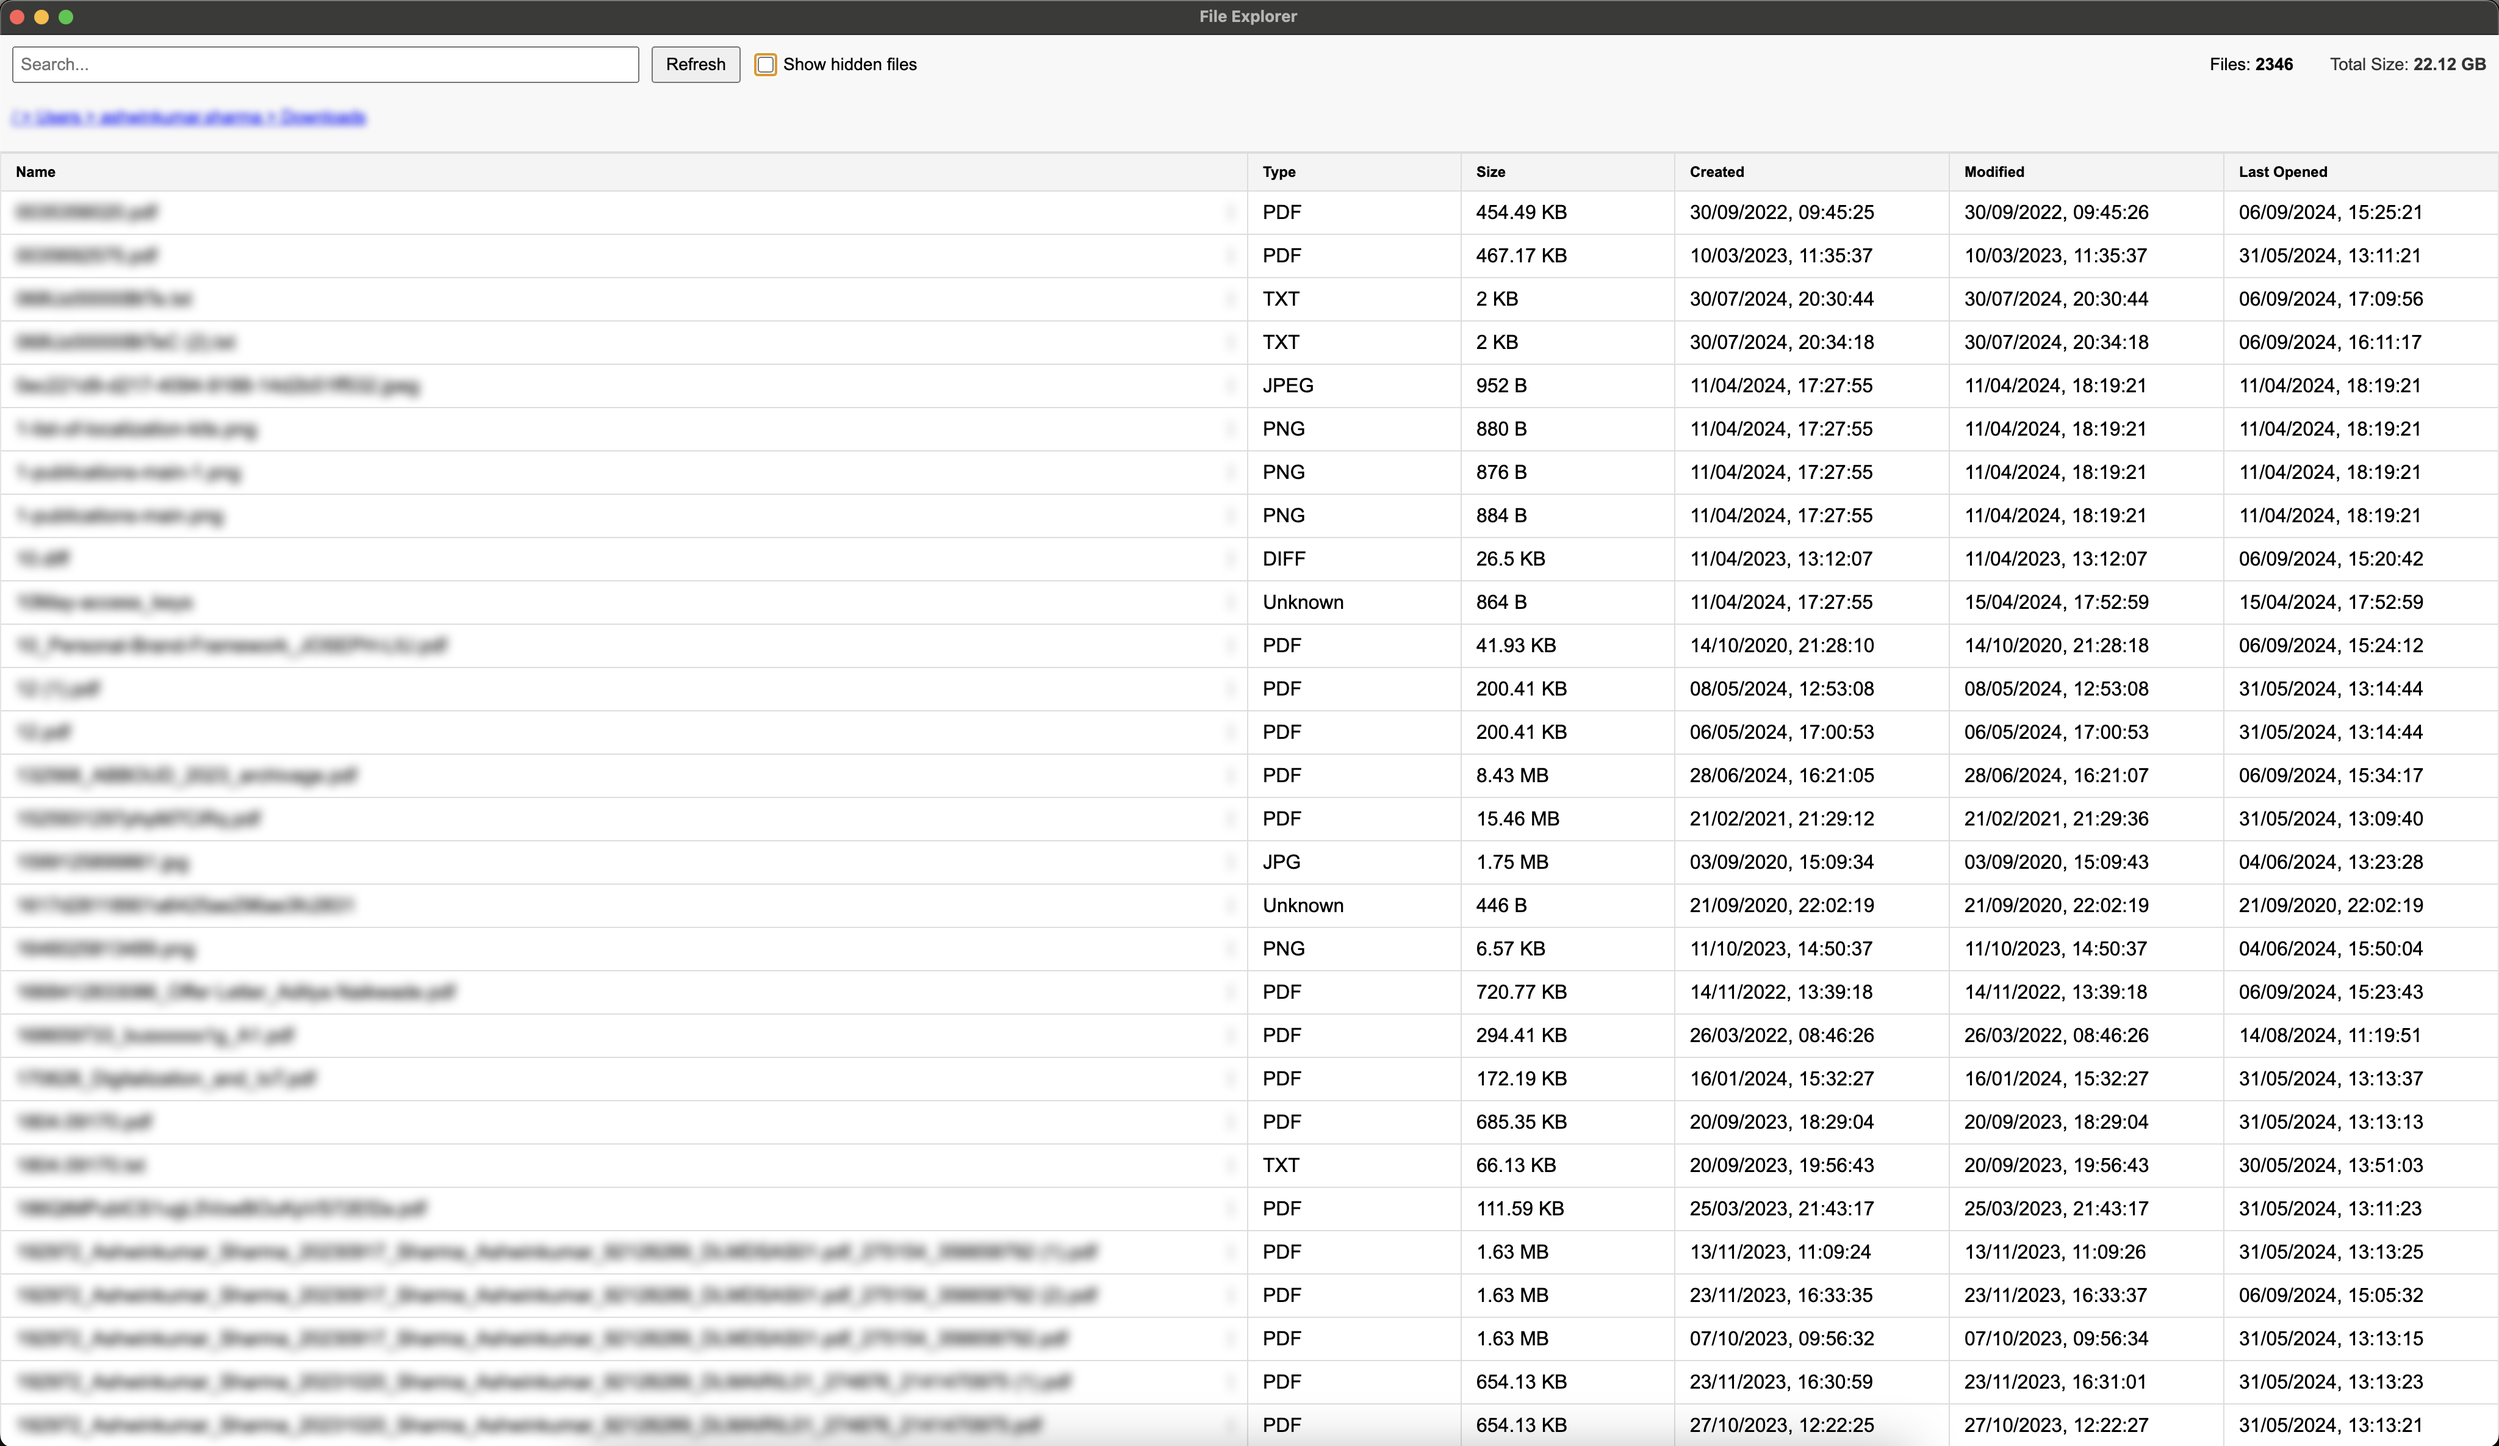
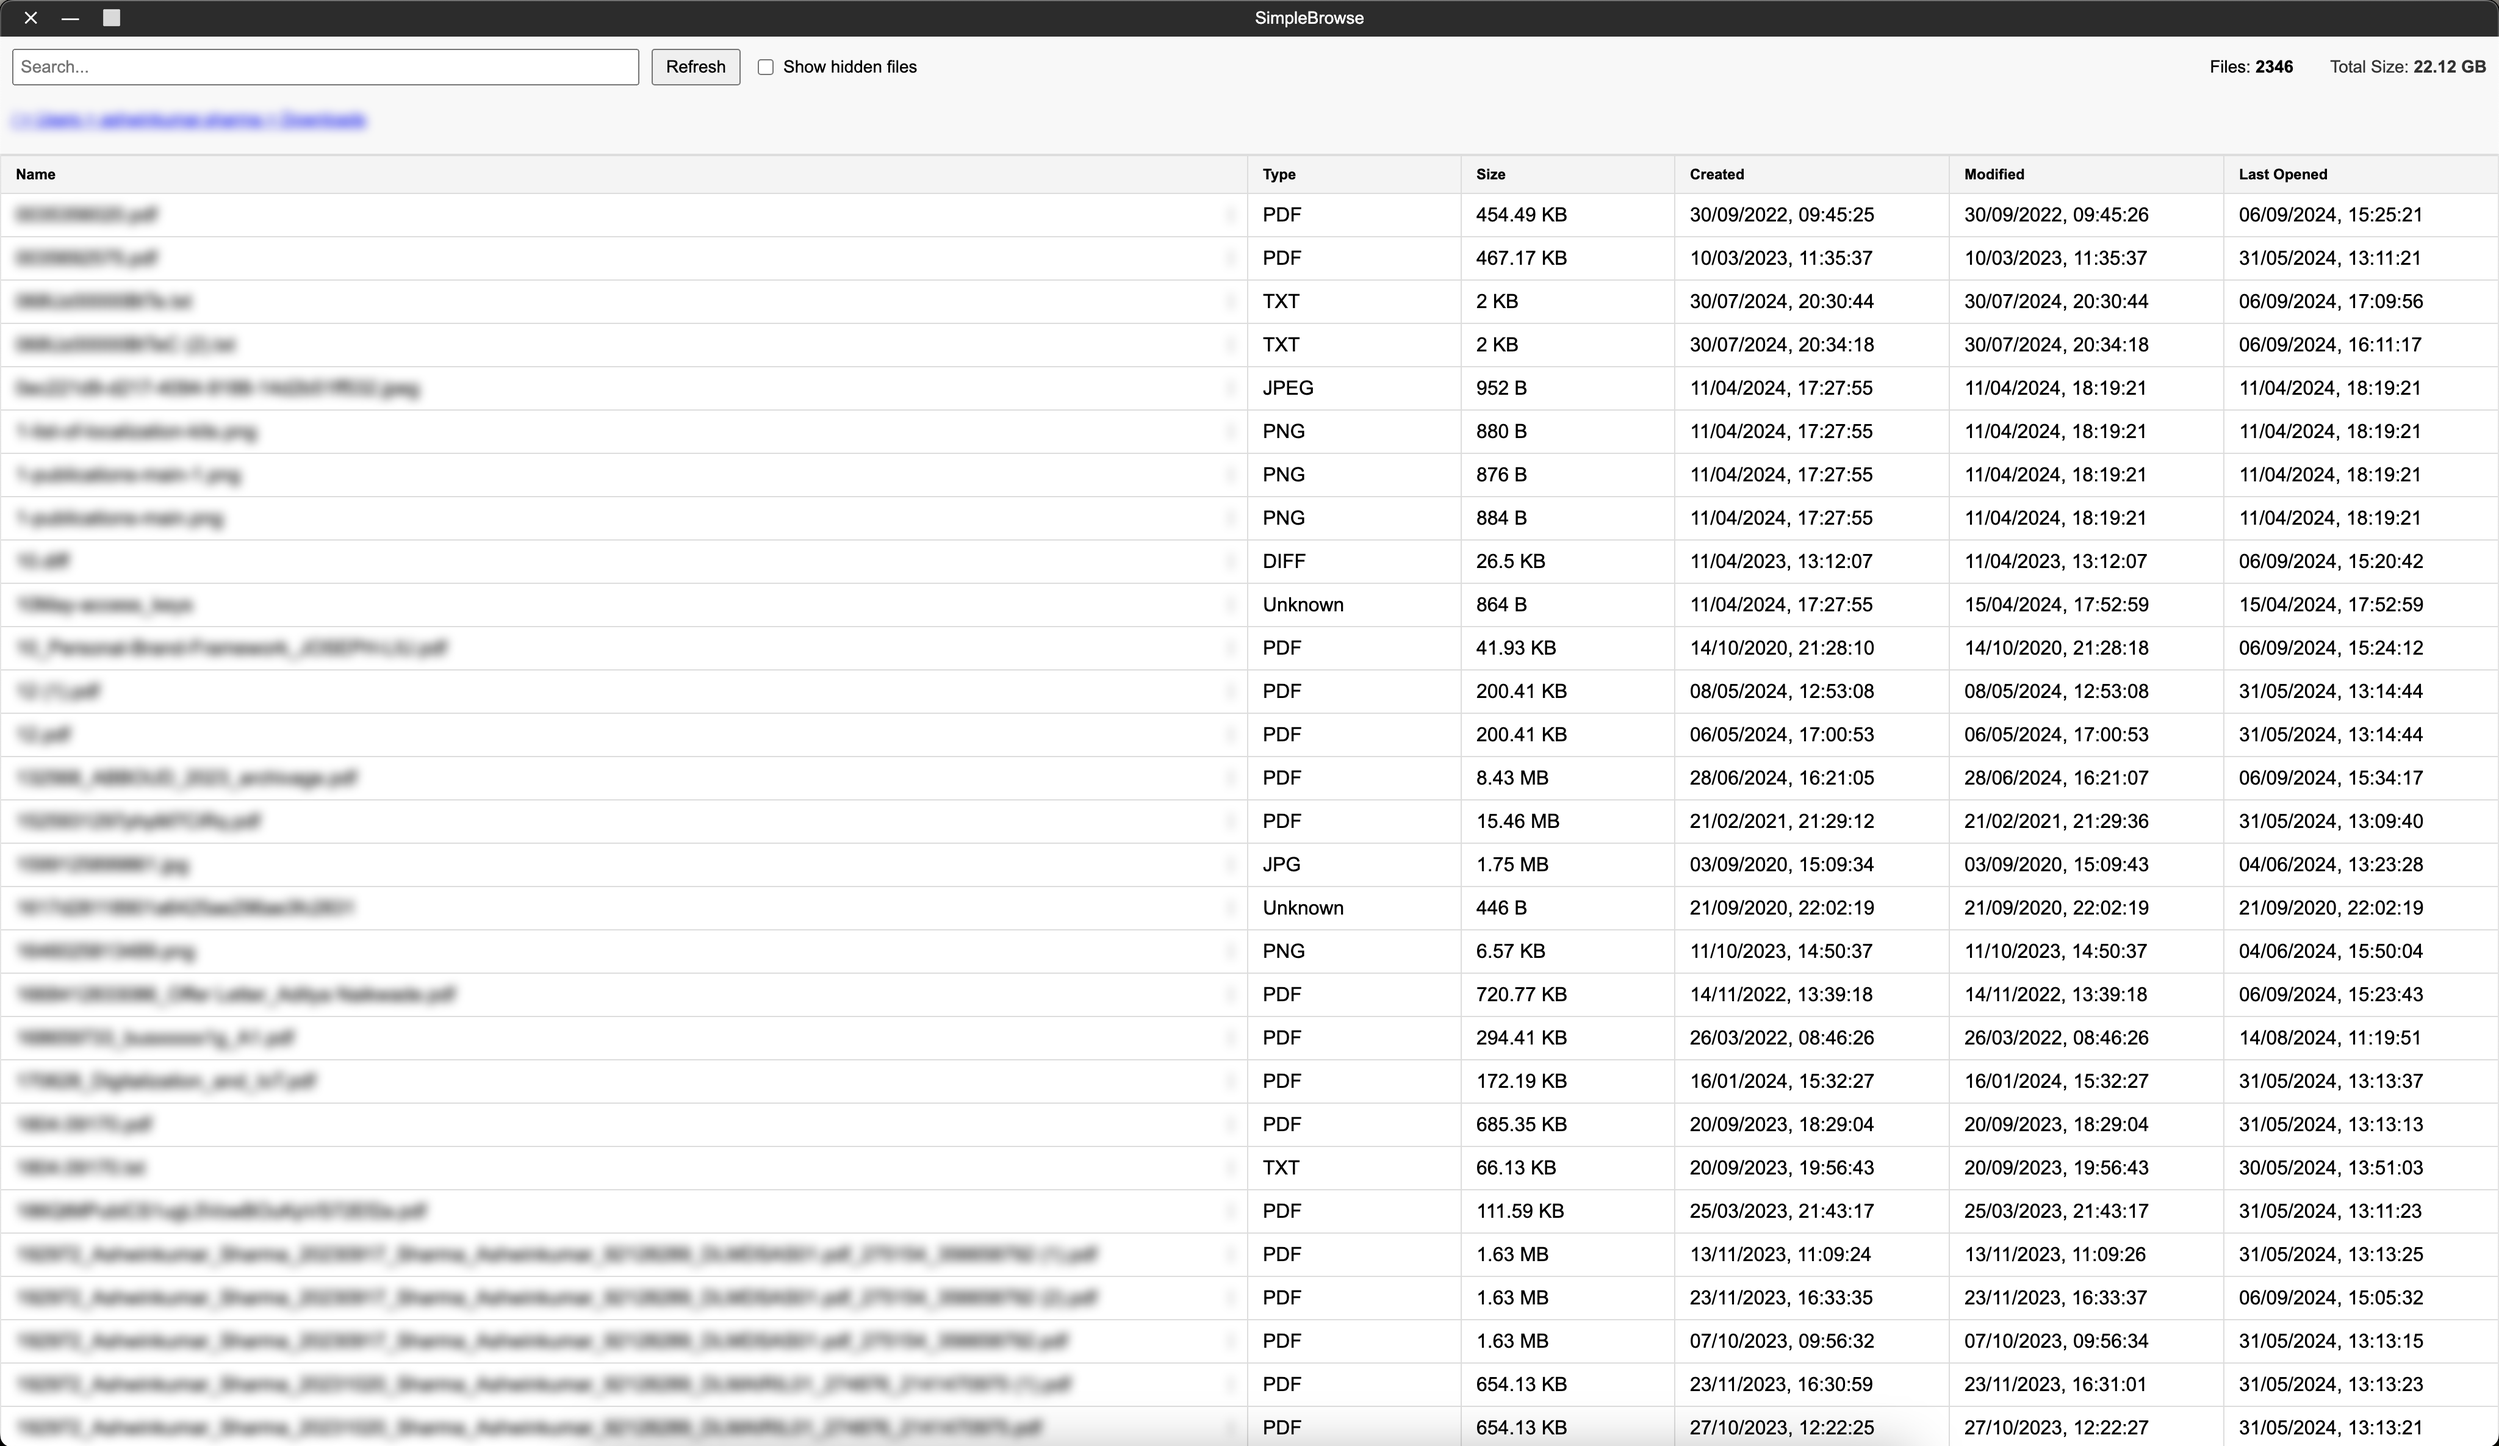
Removed default title bar and customised UI

diff --git a/main.js b/main.js
@@ -5,10 +5,13 @@ const os = require('os');
 
 app.disableHardwareAcceleration();
 
+var mainWindow;
+
 function createWindow() {
-    const mainWindow = new BrowserWindow({
+    mainWindow = new BrowserWindow({
         width: 800,
         height: 600,
+        frame: false,
         icon: path.join(__dirname, 'assets', 'app-icon.png'),
         webPreferences: {
             preload: path.join(__dirname, 'preload.js'),
@@ -119,4 +122,20 @@ ipcMain.handle('get-directory-contents', async (event, dirPath) => {
     const content = await Promise.all(contentPromises);
 
     return { content, breadcrumbs };
+});
+
+ipcMain.on('minimize-window', () => {
+    mainWindow.minimize();
+});
+
+ipcMain.on('toggle-maximize-window', () => {
+    if (mainWindow.isMaximized()) {
+        mainWindow.unmaximize();
+    } else {
+        mainWindow.maximize();
+    }
+});
+
+ipcMain.on('close-window', () => {
+    mainWindow.close();
 });

diff --git a/index.html b/index.html
@@ -3,10 +3,21 @@
 <head>
     <meta charset="UTF-8">
     <meta name="viewport" content="width=device-width, initial-scale=1.0">
-    <title>File Explorer</title>
+    <title>Simple Browse</title>
     <link rel="stylesheet" href="./styles.css">
 </head>
 <body>
+    <div class="title-bar">
+        <div class="title-bar-buttons">
+            <button class="close-btn" onclick="closeWindow()">✕</button>
+            <button class="minimize-btn" onclick="minimizeWindow()">—</button>
+            <button class="maximize-btn" onclick="toggleMaximizeWindow()">⬜</button>
+        </div>
+        
+        <div class="title-bar-drag-region">
+            <div class="title-bar-title">SimpleBrowse</div>
+        </div>
+    </div>
     <div class="toolbar-container">
         <div class="toolbar">
             <input type="text" id="search" placeholder="Search..." oninput="filterFiles()" />

diff --git a/styles.css b/styles.css
@@ -4,6 +4,47 @@ body {
     padding: 0;
 }
 
+.title-bar {
+    display: flex;
+    align-items: center;
+    justify-content: space-between;
+    background-color: #2c2c2c;
+    color: white;
+    padding: 0 10px;
+    height: 30px;
+    -webkit-user-select: none;
+}
+
+.title-bar-drag-region {
+    -webkit-app-region: drag;
+    flex-grow: 1;
+}
+
+.title-bar-title {
+    font-size: 14px;
+    text-align: center;
+    flex-grow: 2;
+}
+
+.title-bar-buttons {
+    display: flex;
+    align-items: center;
+    justify-content: flex-end;
+}
+
+.title-bar-buttons button {
+    background: none;
+    border: none;
+    color: white;
+    padding: 0 10px;
+    font-size: 14px;
+    cursor: pointer;
+}
+
+.title-bar-buttons button:hover {
+    background-color: rgba(255, 255, 255, 0.1);
+}
+
 .toolbar-container {
     position: sticky;
     top: 0;

diff --git a/preload.js b/preload.js
@@ -6,5 +6,8 @@ contextBridge.exposeInMainWorld('electronAPI', {
     copyFile: (filePath) => ipcRenderer.invoke('copy-file', filePath),
     copyFilePath: (filePath) => ipcRenderer.invoke('copy-file-path', filePath),
     deleteFile: (filePath) => ipcRenderer.invoke('delete-file', filePath),
-    renameFile: (oldPath, newName) => ipcRenderer.invoke('rename-file', oldPath, newName)
+    renameFile: (oldPath, newName) => ipcRenderer.invoke('rename-file', oldPath, newName),
+    minimizeWindow: () => ipcRenderer.send('minimize-window'),
+    toggleMaximizeWindow: () => ipcRenderer.send('toggle-maximize-window'),
+    closeWindow: () => ipcRenderer.send('close-window')
 });

diff --git a/renderer.js b/renderer.js
@@ -329,5 +329,17 @@ function openFile(filePath) {
     window.electronAPI.openFile(filePath);
 }
 
+function minimizeWindow() {
+    window.electronAPI.minimizeWindow();
+}
+
+function toggleMaximizeWindow() {
+    window.electronAPI.toggleMaximizeWindow();
+}
+
+function closeWindow() {
+    window.electronAPI.closeWindow();
+}
+
 // Start by loading the Downloads directory
 navigateTo('');
